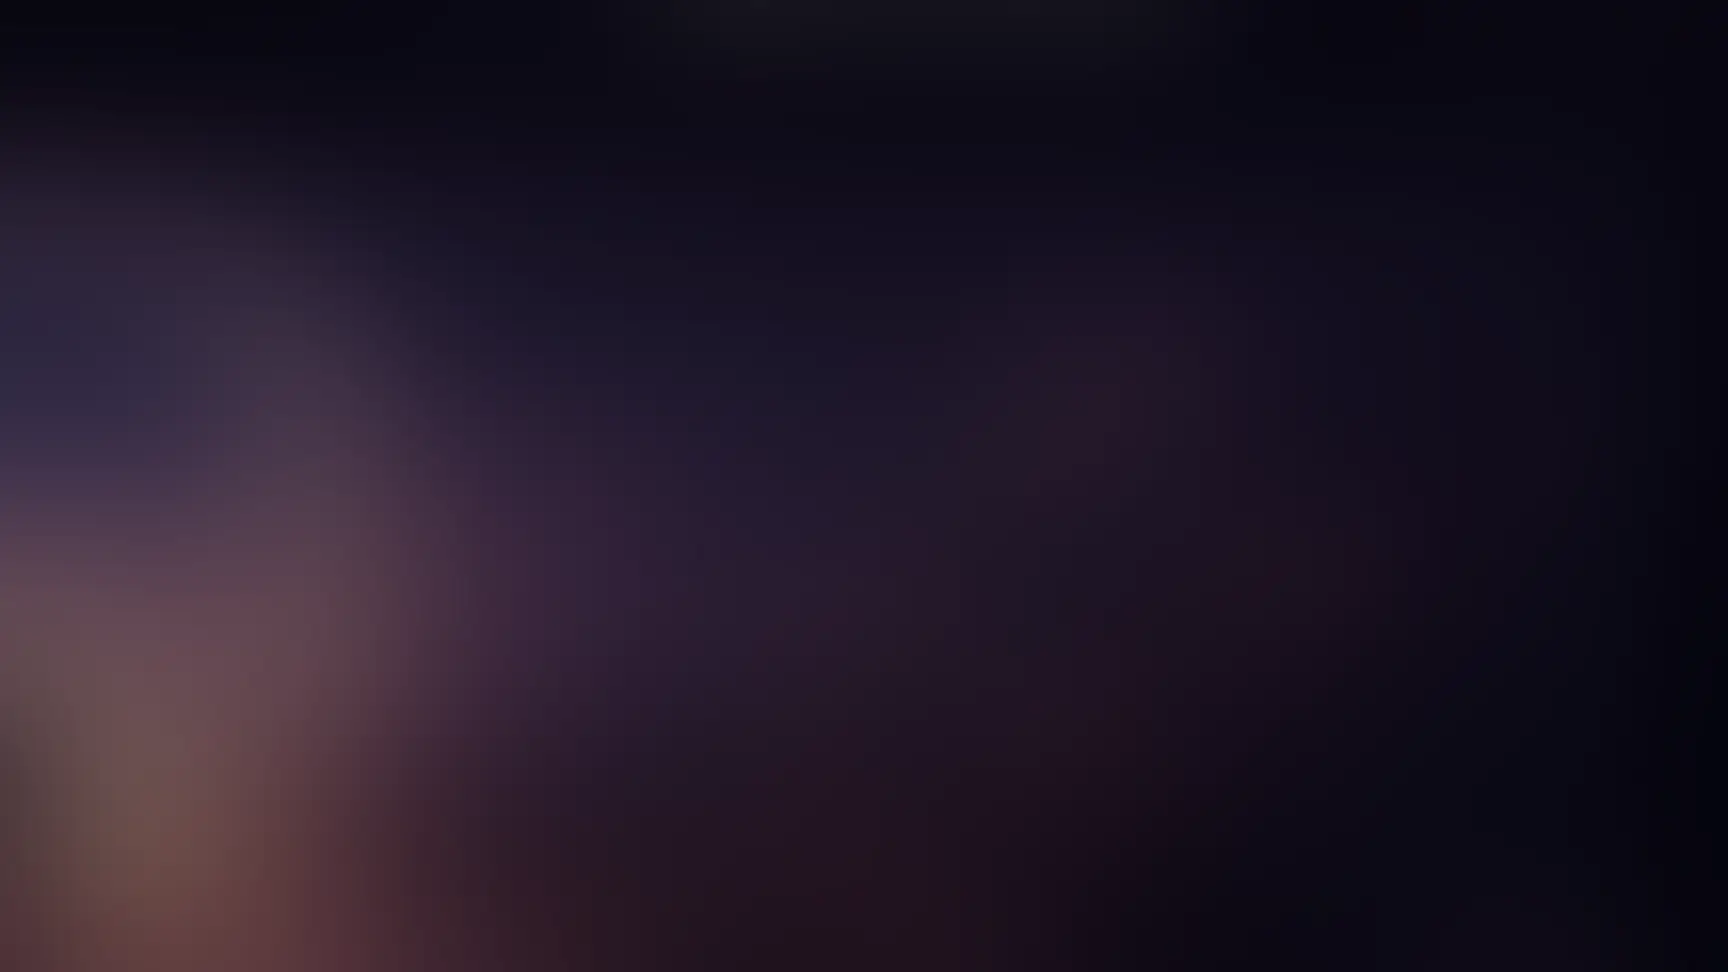
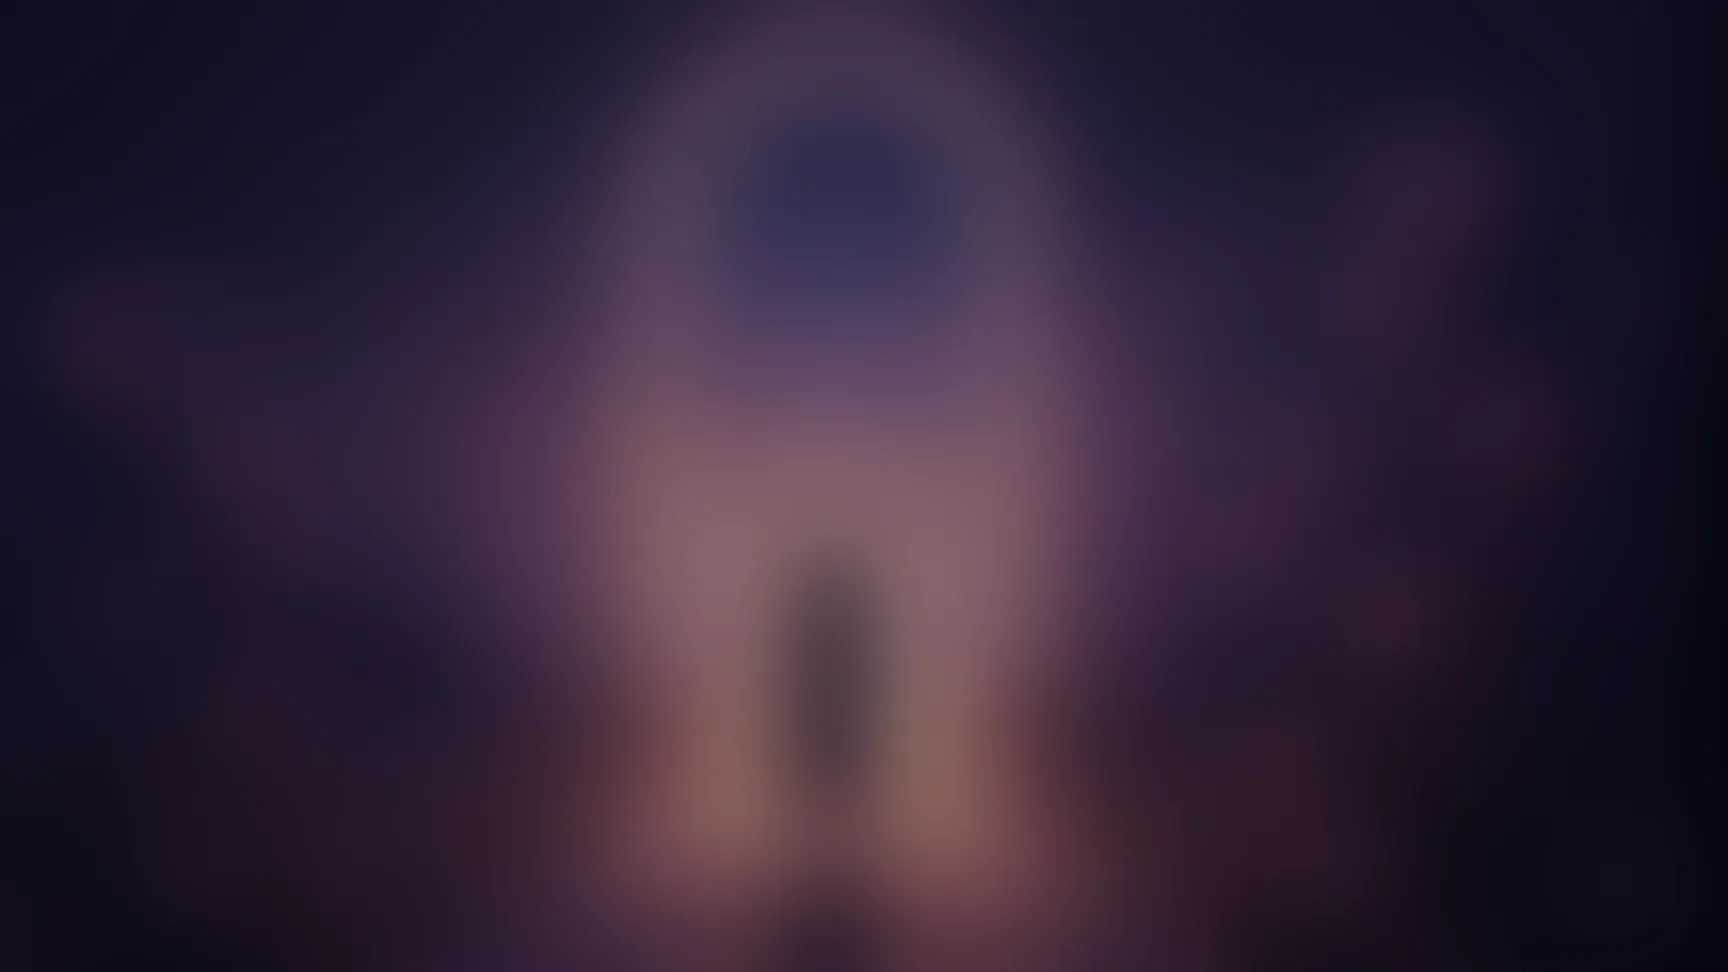
Scenery Parity Pass Phase 1: full-bleed backdrop for Mirror + Decision Room
Mirror Room's hero goes from a small 224x224 square-beside-text widget to
a full-width banner matching Decision Room's existing Card+gradient-fade
convention, so both rooms share one hero pattern. Regenerates both rooms'
page-background wash from their own hero crop (same source pixels, just
blurred/darkened less aggressively than before) instead of the flatter
original derivation, so the room feels occupied beyond the hero card
instead of cutting to flat black.

diff --git a/apps/web/src/components/mirror/MirrorRoomLanding.tsx b/apps/web/src/components/mirror/MirrorRoomLanding.tsx
@@ -103,26 +103,28 @@ export default function MirrorRoomLanding({ userName, onStart, sourceTopicTitle 
             <div className="lg:grid lg:grid-cols-3 lg:gap-6 lg:items-start">
               {/* Main column */}
               <div className="lg:col-span-2 space-y-4 lg:space-y-6">
-                <Card className="lg:flex lg:items-center lg:gap-8 !p-0 lg:!p-6 overflow-hidden">
-                  <div className="relative h-64 lg:h-56 lg:w-56 lg:shrink-0 lg:rounded-[var(--radius-card)] overflow-hidden">
+                <Card className="relative overflow-hidden !p-0">
+                  <div className="relative h-64 lg:h-80">
                     <Image
                       src="/images/mirror/mirror-room-hero.webp"
                       alt=""
                       fill
-                      sizes="(min-width: 1024px) 224px, 100vw"
+                      sizes="(min-width: 1024px) 66vw, 100vw"
                       className="object-cover"
+                      priority
                     />
-                  </div>
-                  <div className="p-5 lg:p-0">
-                    <h2 className="font-display text-xl lg:text-2xl text-white">Welcome to Mirror Room</h2>
-                    <p className="text-white/50 text-sm mt-2 leading-relaxed max-w-sm">
-                      This is your space to pause, observe, and explore your inner patterns. The more you see, the more you&apos;re free to choose.
-                    </p>
-                    <div className="mt-4 flex items-center gap-3">
-                      <PrimaryButton label="Start Mirror" onClick={onStart} className="lg:w-auto lg:px-6" />
-                      <span className="text-[var(--color-text-tertiary)] text-xs">
-                        {ROOM_REFINE_COST} credit{ROOM_REFINE_COST === 1 ? '' : 's'} per refine
-                      </span>
+                    <div className="absolute inset-0 bg-gradient-to-t from-[var(--color-bg-base)] via-transparent to-transparent" />
+                    <div className="absolute inset-0 flex flex-col items-start justify-end p-5 lg:p-8">
+                      <h2 className="font-display text-xl lg:text-2xl text-white">Welcome to Mirror Room</h2>
+                      <p className="text-white/60 text-sm mt-1 max-w-sm">
+                        This is your space to pause, observe, and explore your inner patterns. The more you see, the more you&apos;re free to choose.
+                      </p>
+                      <div className="mt-4 flex items-center gap-3">
+                        <PrimaryButton label="Start Mirror" onClick={onStart} className="lg:w-auto lg:px-6" />
+                        <span className="text-[var(--color-text-tertiary)] text-xs">
+                          {ROOM_REFINE_COST} credit{ROOM_REFINE_COST === 1 ? '' : 's'} per refine
+                        </span>
+                      </div>
                     </div>
                   </div>
                 </Card>

diff --git a/apps/web/src/components/decision/DecisionRoomLanding.tsx b/apps/web/src/components/decision/DecisionRoomLanding.tsx
@@ -102,7 +102,7 @@ export default function DecisionRoomLanding({ userName, onStart, sourceTopicTitl
               {/* Main column */}
               <div className="lg:col-span-2 space-y-4 lg:space-y-6">
                 <Card className="relative overflow-hidden !p-0">
-                  <div className="relative h-56 lg:h-72">
+                  <div className="relative h-64 lg:h-80">
                     <Image
                       src="/images/decision/decision-room-hero.webp"
                       alt=""

diff --git a/docs/AGENT_LOG.md b/docs/AGENT_LOG.md
@@ -8,7 +8,7 @@ This project has **no human development team**. It is built entirely by Claude C
 
 > You're picking up work on DPNR (`C:\Users\rekkawi\decision-room`), a personal-development product built entirely by Claude Code agents — no human dev team, real engineering discipline expected anyway. Before doing anything else, read `docs/AGENT_LOG.md` in full, then `docs/MVP_ARCHITECTURE.md`, then `docs/adr/`, then `docs/PHASE_AUDIT.md`, then `docs/INTELLIGENCE_SPEC_AUDIT.md` (new as of Session 29 — compares the new `docs/DPNR_operating_spec_principles.pdf` intelligence spec against the live codebase; that PDF now ranks above `MVP_ARCHITECTURE.md` in doc authority) — don't relitigate a settled ADR.
 >
-> **Status (Session 42 — read this first): landing page (`/`) redesigned and committed — Sign In is now the sole primary action (the old "Start a Decision" CTA is gone), with disabled/coming-soon Google and Apple buttons. Also published a "Scenery Parity Pass" claude.ai Artifact (not in this repo — ask the user for the link) comparing all 8 reference-mockup screens against the actual current asset files, with a proposed 6-phase plan to extend richer reference scenery into Mirror Room and Decision Room especially — not yet built, awaiting the user's go-ahead on which phases to greenlight.**
+> **Status (Session 42 — read this first): landing page (`/`) redesigned and committed — Sign In is now the sole primary action (the old "Start a Decision" CTA is gone), with disabled/coming-soon Google and Apple buttons. Also published a "Scenery Parity Pass" claude.ai Artifact (not in this repo — ask the user for the link) comparing all 8 reference-mockup screens against the actual current asset files, with a proposed 6-phase plan to extend richer reference scenery. User approved implementing all 6 phases, one at a time, pausing to document each — see "Next Agent — Start Here" below for exactly which phases are done vs. still ahead, and be ready to hand this off mid-plan if a session boundary hits before all 6 are done.**
 >
 > **New technical debt this session — OAuth has no real return/callback URL wired up yet, and the one file that already sits at that URL is stale.** The landing page's Google/Apple buttons are visual-only placeholders (`apps/web/src/app/page.tsx`) — real federation needs, in order: (1) a Google Cloud OAuth client (external, the user creates this, not Claude), (2) a Cognito Hosted UI domain (`userPool.addDomain(...)` — doesn't exist yet in `auth-stack.ts`), (3) a `UserPoolIdentityProviderGoogle` construct wired to that client's credentials, (4) an `oAuth: { callbackUrls: [...], logoutUrls: [...] }` block added to the `WebClient` app client (currently SRP-only — no OAuth config of any kind today), and (5) a real callback route for the redirect to land on. That last piece **already has a file sitting at the expected URL** — `apps/web/src/app/auth/callback/route.ts` — but it's 100% stale pre-Cognito-migration Supabase code (imports `@/lib/supabase/server`, writes to a `user_profiles` table that predates the DynamoDB single-table model) and needs a full rewrite for Cognito's authorization-code exchange, not a reuse. Nothing currently links to it (the disabled buttons don't navigate anywhere), so it's dormant, not actively broken — but don't assume it's ready the next time real OAuth work starts.
 >
@@ -331,12 +331,21 @@ This project has **no human development team**. It is built entirely by Claude C
 
 **Committed this session**: `67d243d` (landing page redesign), plus this log update. **Not pushed** — `mvp` is now 9 commits ahead of `origin/mvp` (8 carried over from Session 41, still unpushed, plus this one). Ask the user before pushing.
 
+**Scenery Parity Pass progress (user approved building all 6 phases, one at a time, pausing to document each)**:
+- ✅ **Phase 1 done, committed, live-verified**: Mirror Room + Decision Room full-bleed scenery. See this session's own "Session History" entry below for full detail before touching either room again.
+- ⬜ Phase 2: Dashboard lower-card art check (verify a possible gap first, not confirmed live yet)
+- ⬜ Phase 3: Content & Learning subsection thumbnails (Getting Unstuck / Gentle Healing / Understanding Your Reactions)
+- ⬜ Phase 4: My Evolution Map life-domain icons
+- ⬜ Phase 5: Growth Tracker Emotional Landscape / Values card art (flagged lower-priority — may not need art at all)
+- ⬜ Phase 6: Utility screens (Login/Signup/Terms/Consent) — still an open product question, don't build until it's actually answered
+
 **Immediate next steps, in priority order**:
-1. **OAuth has no real return/callback URL wired up** (new finding this session — see "Status" above for the full 5-piece checklist). Needs a Google Cloud OAuth client from the user before any of it can be built; `apps/web/src/app/auth/callback/route.ts` exists but is stale pre-Cognito Supabase code, not reusable as-is.
-2. **The sign-in email case-sensitivity bug is still not fixed** (`apps/web/src/lib/cognito/client.ts`'s `signIn()` — no `.toLowerCase()` before calling Cognito). Found live in Sessions 40 and 41, still open.
-3. **Login/Signup's missing desktop treatment is still not fixed** — and now that the root landing page has the correct full-bleed-background-as-a-sibling pattern working, Login/Signup can copy that exact structure rather than rediscovering it. Their current bug is worse than a missing `lg:` class: their background `<Image>` is nested *inside* the narrow `max-w-[393px]` div, so the background is clipped too, not just the text.
-4. **Scenery Parity Pass phases** (see the published Artifact) — ask the user which phases to greenlight. Phase 1 (Mirror Room + Decision Room full-bleed backdrop) is flagged as most urgent; Phase 6 (utility screens) is an open product question, not yet decided.
+1. Continue the Scenery Parity Pass at Phase 2 (see above and the published Artifact for full phase detail).
+2. **OAuth has no real return/callback URL wired up** (Session 42 finding — see "Status" above for the full 5-piece checklist). Needs a Google Cloud OAuth client from the user before any of it can be built; `apps/web/src/app/auth/callback/route.ts` exists but is stale pre-Cognito Supabase code, not reusable as-is.
+3. **The sign-in email case-sensitivity bug is still not fixed** (`apps/web/src/lib/cognito/client.ts`'s `signIn()` — no `.toLowerCase()` before calling Cognito). Found live in Sessions 40 and 41, still open.
+4. **Login/Signup's missing desktop treatment is still not fixed** — and now that the root landing page has the correct full-bleed-background-as-a-sibling pattern working, Login/Signup can copy that exact structure rather than rediscovering it. Their current bug is worse than a missing `lg:` class: their background `<Image>` is nested *inside* the narrow `max-w-[393px]` div, so the background is clipped too, not just the text.
 5. The remaining ~17 radius-candidate files from Session 41's theme audit — same by-hand judgment as the ones already converted, not a script.
+6. A stray `[error] Failed to load resource: the server responded with a status of 400` was observed in the console on both `/mirror/new` and `/decision/new` this session (Phase 1's own verification) — not investigated, doesn't appear image/layout-related, and didn't block anything visually. Worth a quick look, not urgent.
 
 **What's genuinely still open, unchanged this session** (carried forward from Session 41, from the Reference Parity Audit's own findings, not yet acted on): Dashboard's mobile "My InnerSelf" scroll-cutoff (Session 38 flagged it, Session 39 couldn't reproduce against an empty account — still unresolved either way); Decision Room's "Options Overview" widget (no backend, needs a decision on whether it's worth a new aggregation endpoint); Content & Learning's real content-volume gap (6 topics exist, reference implies 20+, 2 of 6 real taxonomy categories have zero topics — content authoring, not code); Wallet's "Gift & Share Credits" referral system (still fully unbuilt, flagged since Session 27). A handful of cosmetic-only items are listed in the published Reference Parity Audit artifact if you want the full list — ask the user for the link.
 
@@ -491,6 +500,16 @@ From there, wrote and got approval for a 6-slice plan, `C:\Users\rekkawi\.claude
 ---
 
 ## Session History
+
+### 2026-09-09 — Session 42, part 2: Scenery Parity Pass Phase 1 (Mirror Room + Decision Room full-bleed backdrop)
+- Direct continuation, same session: user approved implementing the published Scenery Parity Pass plan's all 6 phases, one at a time, pausing to document each, and to be ready to hand off to a fresh agent if the session runs long.
+- **Regenerated `backgrounds/mirror-bg.webp` and `backgrounds/decision-bg.webp`** from the existing sharp hero crops (`mirror-room-hero.webp`/`decision-room-hero.webp`) rather than re-deriving new crop rectangles from the source PDF — same source pixels as each room's hero, so the full-page wash and the hero card can't visually disagree. Center-cropped to the existing 1728×972 background aspect, Gaussian-blurred (radius 42), darkened by a lighter 0.62 multiplier than whatever produced the originals (measured before/after: `decision-bg` avg brightness 32→48, max 110→138; `mirror-bg` avg 13→39, max 66→135 — both noticeably richer while still legible behind text). Throwaway PIL script, not committed.
+- **Mirror Room's hero rebuilt from a small 224×224 square-beside-text widget into a full-width banner** (`MirrorRoomLanding.tsx`) — matches the `Card` + gradient-fade + overlaid-heading convention `DecisionRoomLanding.tsx` already used, so both rooms now share one hero pattern instead of two different shapes. This was the actual biggest gap the Artifact identified: Mirror Room's art footprint was the smallest of all 8 screens relative to page emptiness.
+- Bumped both rooms' hero height (`h-56 lg:h-72` → `h-64 lg:h-80`) — the `mockup-to-code` skill's own documented lesson ("match the reference's proportions... usually 3–4x bigger than your first instinct") applied a second time, now to height rather than a brand-new hero.
+- **Verified live** against the real signed-in account (re-authenticated mid-session after the Cognito token expired — the user signed back in, Claude does not touch password fields): both rooms render correctly at 1440×900 and mobile (375×812), confirmed via DOM `getBoundingClientRect`/`naturalWidth` and a canvas pixel-brightness sample (avg 72.5, matching the real hero's known 72.3) after one screenshot showed the hero as a blank purple card — the same known Browser-pane compositor flakiness Sessions 22/41 already documented, not a real bug; DOM/pixel data confirmed the image was genuinely rendering the whole time. No console errors from the change itself; one pre-existing, unrelated `400` resource error observed and logged above, not investigated.
+- **Committed**: code + regenerated assets in one commit (`apps/web/src/components/decision/DecisionRoomLanding.tsx`, `apps/web/src/components/mirror/MirrorRoomLanding.tsx`, `apps/web/public/images/backgrounds/{decision,mirror}-bg.webp`).
+- No ADR — this is building the already-approved plan, not a new architectural or product decision.
+- Did not touch: Phases 2–6, the OAuth callback-URL debt, the email case-sensitivity bug, or Login/Signup's own desktop-layout fix.
 
 ### 2026-09-09 — Session 42: scenery parity plan (artifact) + landing page redesign (Sign In primary, disabled OAuth, real desktop layout)
 - Toured the live app fresh (Companion mid-conversation, Dashboard, Growth Tracker, Content & Learning, Mirror Room, Decision Room, My Evolution Map, My Wallet, Login, Terms) to confirm Session 41's theme-audit work was rendering correctly — contrast fixes, per-page background imagery, and the new hero art/archetype badges all live with no console errors.
